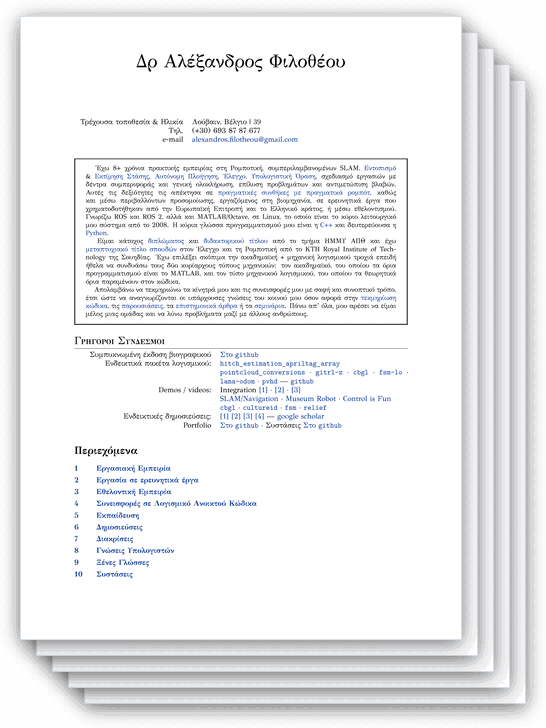
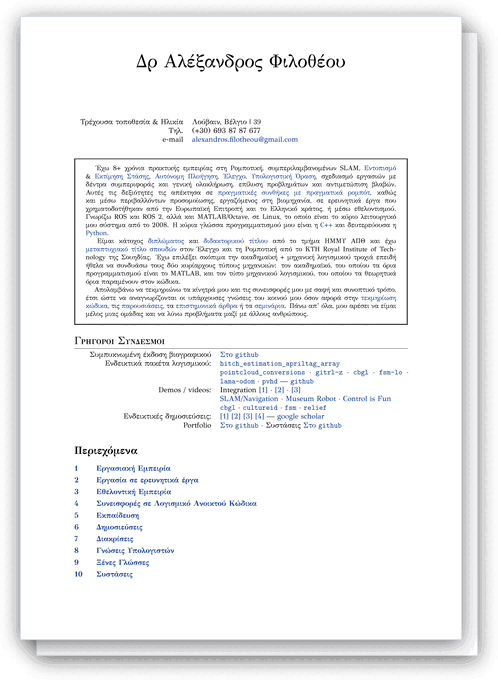
~

Changed region(s): [[0.0, 0.0, 0.994, 0.9882], [0.241, 0.0618, 0.6928, 0.1235], [0.6928, 0.5868, 0.7229, 0.6176]]

diff --git a/README.md b/README.md
@@ -23,7 +23,7 @@ Table of Contents
     </td>
     <td align="center" width="33%">
       <a href="https://docs.google.com/viewerng/viewer?url=https://raw.githubusercontent.com/li9i/CV/master/extended/cv_extended_alexandros_filotheou.pdf">
-        <img src="assets/thumbnails/extended.png" width="273" alt="Extended CV, eight pages">
+        <img src="assets/thumbnails/extended.png" width="249" alt="Extended CV, eight pages">
       </a><br>
       <b>Extended</b><br>
       <sub>English &middot; 8 pages</sub>
@@ -40,7 +40,7 @@ Table of Contents
     </td>
     <td align="center" width="33%">
       <a href="https://docs.google.com/viewerng/viewer?url=https://raw.githubusercontent.com/li9i/CV/master/%CE%B1%CE%BD%CE%B1%CE%BB%CF%85%CF%84%CE%B9%CE%BA%CF%8C/cv_extended_alexandros_filotheou.pdf">
-        <img src="assets/thumbnails/analytiko.png" width="273" alt="Extended CV in Greek, eight pages">
+        <img src="assets/thumbnails/analytiko.png" width="249" alt="Extended CV in Greek, eight pages">
       </a><br>
       <b>Αναλυτικό</b><br>
       <sub>Ελληνικά &middot; 8 σελίδες</sub>
